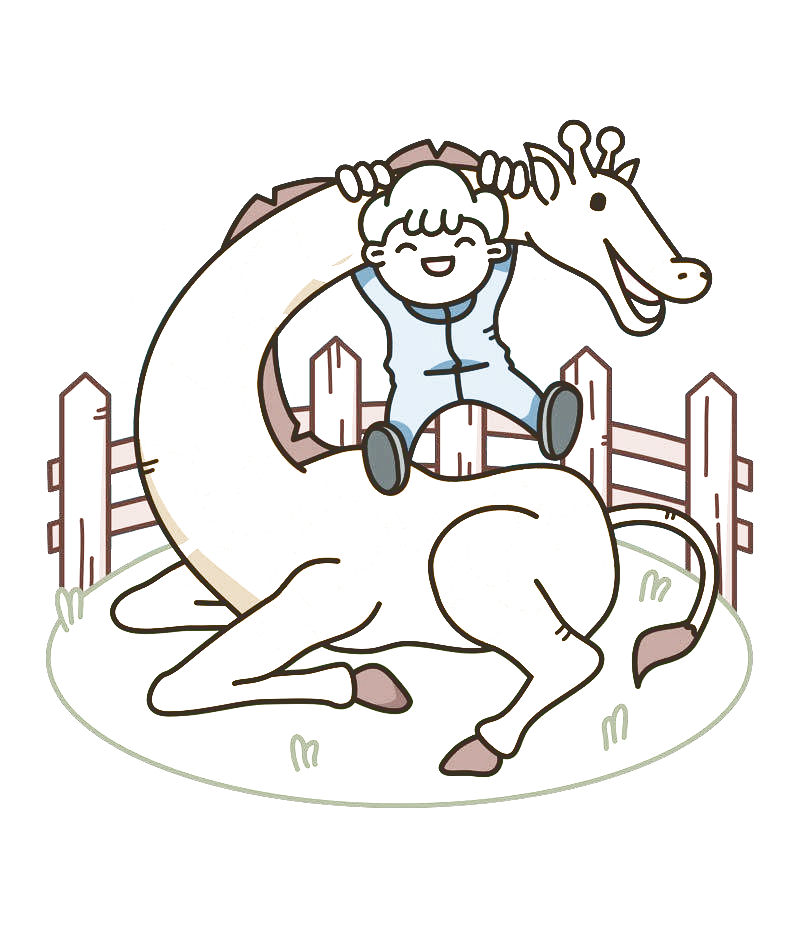
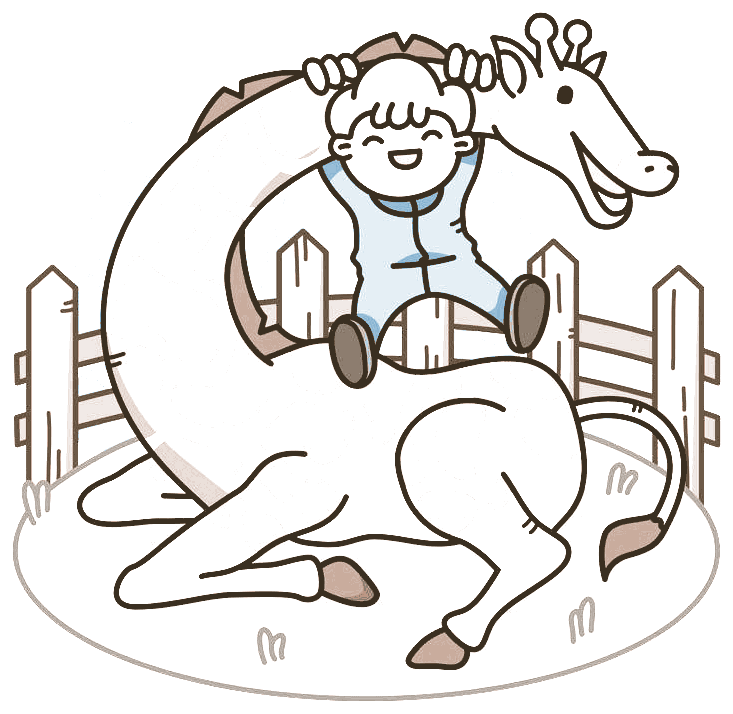
Share playtest fixes: lighter page files, cropped Giraffe page, colors in two rows, Hire in the picker, faster arrival
- make-page.mjs: a per-page crop to the drawing itself (the empty paper went from 51% to 33% of the page; the
  giraffe's body has no drawn lines between its spots, so it stays one region); line.png is now an indexed PNG
  (4 ink tones x 15 opacity levels): 336 KB -> 42 KB; original.jpg (same crop) for Peek and the reveal.
- Colors in 2 rows of 7, so Ekky's 12 colors and Any color show at once.
- The page picker ends with the Hire button (sheet.hire).
- A friend's link: the loader goes as soon as their coloring is drawn; the start thumbnails wait 2.5 s and the Art
  cards render on the first visit to Art; the desktop hero image loads lazily (hidden in game mode).

Claude-Session: https://claude.ai/code/session_014vZdpTepmb6uBiaAW96HMH

diff --git a/assets/color/giraffe/page.js b/assets/color/giraffe/page.js
@@ -1,2 +1,2 @@
 // Generated by scripts/make-page.mjs from page.json and regions.png. Do not edit.
[2 lines of base64/hex data omitted]

diff --git a/js/color.js b/js/color.js
@@ -41,6 +41,7 @@ G.insertAdjacentHTML("beforeend",`<div class="c-over" id="gColor" role="dialog" 
     <button class="g-x" id="cPickX" aria-label="Close">${ico("i-close")}</button>
     <h2 class="g-title">${esc(t("color.title"))}</h2><p class="g-sub">${esc(t("color.intro"))}</p>
     <div class="c-pages" id="cPages"></div>
+    <div class="c-actions"><button class="g-hire" data-hire aria-label="${esc(t("hire.chip.aria"))}"><img src="assets/ui/monster-head.png" alt=""><span>${esc(t("sheet.hire"))}</span></button></div>
   </section>
   <section class="c-view c-edit" id="cEdit">
     <div class="c-top"><button class="c-icon" id="cBack" aria-label="Back">${ico("i-back")}</button><b id="cTitle"></b>
@@ -150,7 +151,7 @@ async function open(id,opts={}){
   cur=makeState(pd,saved);color=pd.id==="scratch"?4:1;
   const pr=bySlug(pd.meta.slug),title=id==="scratch"?t("color.scratch"):pr?ptitle(pr):pd.meta.title;cur.title=title;
   $("cTitle").textContent=title;stage.style.aspectRatio=`${pd.meta.w}/${pd.meta.h}`;
-  $("cPeek").src=id==="scratch"?"":(bySlug(pd.meta.slug)||{}).full||"";$("cPeekBtn").hidden=id==="scratch";
+  $("cPeek").src=id==="scratch"?"":pd.meta.original||(bySlug(pd.meta.slug)||{}).full||"";$("cPeekBtn").hidden=id==="scratch";
   paint(cur,cv);renderColors();renderStickers();$("cTray").hidden=true;
   view("cEdit");sizeStage();
   if(!hintShown&&!(Game.st.hints||{}).color){hintShown=true;const h=$("cHint");h.textContent=t("color.hint");h.classList.add("show");setTimeout(()=>h.classList.remove("show"),2600);
@@ -223,7 +224,7 @@ function save(now){if(!cur)return;clearTimeout(saveT);const run=()=>{if(!cur)ret
 
 /* ---- reveal: yours and Ekky's, then the share preview ---- */
 function reveal(){const scratch=cur.pd.id==="scratch",c=$("cYours"),{w,h}=cur.pd.meta;c.width=480;c.height=Math.round(480*h/w);compose(cur,c.getContext("2d"),0,0,480);
-  $("cRevTitle").textContent=scratch?t("color.scratch"):t("reveal.title");$("cEkkyFig").hidden=scratch;$("cEkky").src=scratch?"":(bySlug(cur.pd.meta.slug)||{}).full||"";
+  $("cRevTitle").textContent=scratch?t("color.scratch"):t("reveal.title");$("cEkkyFig").hidden=scratch;$("cEkky").src=scratch?"":cur.pd.meta.original||(bySlug(cur.pd.meta.slug)||{}).full||"";
   view("cReveal");Game.sfx("level");
   Game.st.firstDone=1;Game.save()}   // no confetti here: it covered the comparison (share playtest); the reveal itself is the reward
 $("cClose").onclick=close;$("cAgain").onclick=()=>{view("cEdit");sizeStage()};$("cAnother").onclick=openPicker;

diff --git a/js/game.js b/js/game.js
@@ -50,6 +50,7 @@ function go(to){
   G.querySelectorAll(".g-screen").forEach(s=>s.classList.toggle("active",s.id==="g-"+to));
   G.querySelectorAll(".g-tabs button").forEach(b=>b.classList.toggle("active",b.dataset.tab===to));
   if(to==="mine")renderMine();
+  if(to==="art"&&!artDone){artDone=true;renderArt()}
   if(to==="map")renderMap();
   requestAnimationFrame(moveInd);
 }
@@ -154,7 +155,7 @@ function renderArt(){
       <span class="gcat">${catImg(p.cat,"")}</span><div class="art">${artOf(p)}</div><div class="info"><b>${esc(ptitle(p))}</b>${p.label?`<span class="g-tag">${esc(plabel(p))}</span>`:""}</div></div></button>`).join("");
   $("gArtCount").textContent=t("art.count",{n:list.length});
 }
-$("gFilters").addEventListener("click",e=>{const b=e.target.closest("button");if(b){gFilter=b.dataset.f;buzz(8);renderArt()}});
+$("gFilters").addEventListener("click",e=>{const b=e.target.closest("button");if(b){gFilter=b.dataset.f;buzz(8);artDone=true;renderArt()}});
 $("gCards").addEventListener("click",e=>{const c=e.target.closest(".g-card");if(!c)return;buzz(15);sfx("flip");show(+c.dataset.i)});
 
 /* ---- Mine: things you made, never rewards ---- */
@@ -255,7 +256,9 @@ let pausedByHide=false;
 document.addEventListener("visibilitychange",()=>{if(!A)return;if(document.hidden){if(A.run){A.run=false;pausedByHide=true}}
   else if(pausedByHide){pausedByHide=false;setTimeout(()=>{if(A&&!document.hidden&&A.t>0)A.run=true},600)}});
 
-function renderAll(){renderStart();renderMap();renderArt();renderMine();setTimeout(moveInd,60)}
+// A friend's link draws their coloring first; the start thumbnails and the Art cards load after it (share playtest).
+let artDone=false;
+function renderAll(){if(deep)setTimeout(renderStart,2500);else renderStart();renderMap();renderMine();setTimeout(moveInd,60)}
 // Shared with js/color.js, js/share.js and js/links.js.
 window.Game={go,openHire,openSheet,closeSheet,sfx,buzz,save,get st(){return st},esc,contactReady,screen:()=>screen};
 window.openHire=openHire;

diff --git a/js/links.js b/js/links.js
@@ -30,7 +30,8 @@ async function arrive(){const q=new URLSearchParams(location.search);if(!q.has("
   const clean=()=>{const u=new URL(location.href);["color","f","s","from"].forEach(k=>u.searchParams.delete(k));history.replaceState(null,"",u)};
   try{const known=id==="scratch"?feature("doodleScene"):Color.pages().some(p=>p.id===id);if(!known)throw new Error("bad link");
     const pd=await Color.pageData(id),{fills,custom}=decFills(q.get("f")||"",pd.meta.regions),st=decStickers(q.get("s")||"");
-    await Color.showArrival(id,fills,custom,st,from)}catch{}
+    await Color.showArrival(id,fills,custom,st,from);
+    document.getElementById("loader")?.classList.add("done")}catch{}   // the friend's coloring is drawn: drop the loader now
   clean()}
 arrive();
 return {colorUrl,encFills,decFills,encStickers,decStickers,cleanName};

diff --git a/index.html b/index.html
@@ -117,7 +117,7 @@
     </div>
 
     <div class="scene reveal" id="scene" aria-hidden="true">
-      <img class="hero-art" src="assets/hero.png" alt="" onload="this.parentElement.classList.add('has-art')" onerror="this.remove()">
+      <img class="hero-art" src="assets/hero.png" alt="" loading="lazy" decoding="async" onload="this.parentElement.classList.add('has-art')" onerror="this.remove()">
       <svg class="planet" viewBox="0 0 600 640">
         <defs>
           <radialGradient id="pg" cx="38%" cy="35%" r="70%">

diff --git a/css/game.css b/css/game.css
@@ -349,3 +349,5 @@ body.game-mode .toast.show{transform:translate(-50%,0)}
 .g-tile img{width:30px;height:30px}
 .g-tiles{gap:8px}
 .g-row .g-btn.sm.alt{min-width:48px;min-height:44px;padding:8px 14px}
+/* colors in 2 rows of 7, so all of Ekky's colors and Any color show at once (share playtest) */
+.c-colors{display:grid;grid-template-columns:repeat(7,44px);justify-content:center;gap:2px 4px;overflow:visible}
